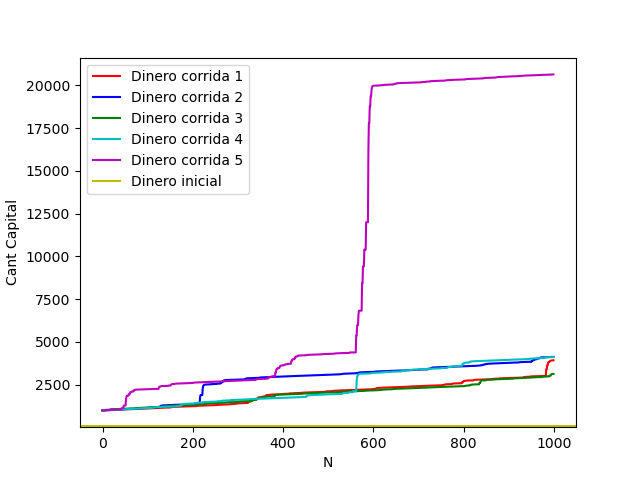
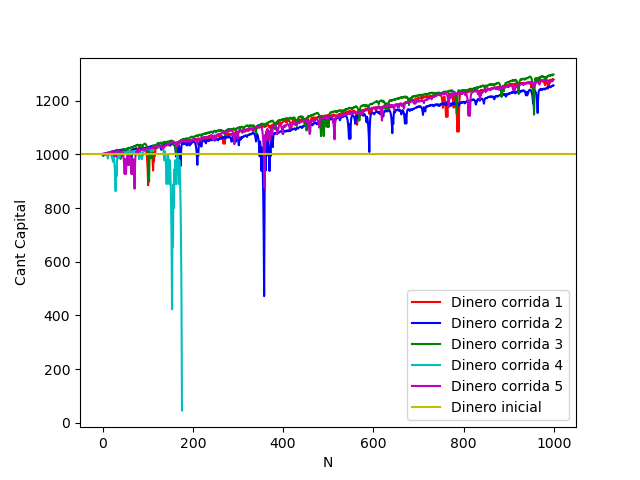
Cambios codigo

diff --git a/ruletaEcon_martingala_multiple.py b/ruletaEcon_martingala_multiple.py
@@ -106,15 +106,15 @@ def apostar():
         print("Tiene que ingresar una apuesta")
     
     n = 1
-    plata = 100
+    caja = 10000
 
-    altura = plata
+    altura = caja
     cant_capital = [[],[],[],[],[]]
     frec_relativas = [[],[],[],[],[]]
     dinero_ganado = [[],[],[],[],[]] 
     c  = 0   
     for x in range(0, cantJugadas):
-        plata = 100
+        caja = 10000
         cant_ganadas = 0
         apuesta = apuesta_original
         for i in range(1 , cantVeces + 1):
@@ -123,33 +123,29 @@ def apostar():
             gano = getGano(modo , nroaleatorio , apuesta , color , numero , paridad)
             
             if gano == 0 :  
-                if not infinito: 
-                    plata -= apuesta
-                    dinero_ganado[x].append(-apuesta)
-                    if plata >= apuesta * factor:
-                        apuesta *= factor
-                    if plata < apuesta * factor:
-                        apuesta = plata
-                    if plata <= 0 :
-                        print("Has perdido")
-                        break
-                    c+=1
-                else:
+                caja -= apuesta
+                dinero_ganado[x].append(-apuesta)
+                if infinito:
                     apuesta *= factor
-                    dinero_ganado[x].append(0)
+                elif caja >= apuesta * factor:
+                    apuesta *= factor
+                elif caja < apuesta * factor :
+                    print("Has perdido")
+                    break
+                c+=1
 
             if gano > 0:
                 dinero_ganado[x].append(gano)
-                plata -= apuesta
-                plata += gano
-                c+=1
-                cant_ganadas+=1
+                caja -= apuesta
+                caja += gano
+                c += 1
+                cant_ganadas += 1
                 apuesta = apuesta_original
             frec_relativas[x].append(cant_ganadas / i)
-            cant_capital[x].append(plata)
-            if debug : print(f"Aposto {apuesta} y tiene {plata}")
+            cant_capital[x].append(caja)
+            if debug : print(f"Aposto {apuesta} y tiene {caja}")
 
-    print(cant_capital)
+    #print(cant_capital)
     colores = ["r", "b", "g" , "c" , "m"]
     for index , arrayFrecuencia in enumerate(frec_relativas):
         x_coords = np.arange(len(arrayFrecuencia)) 
@@ -157,51 +153,52 @@ def apostar():
     plt.xlabel("N")
     plt.ylabel("FR")
     plt.legend()
-    if infinito:
-        plt.savefig("mg_fr_ili.png")
-    else:
-        plt.savefig("mg_fr_li.png")
-    plt.clf()
-    
+    #if infinito:
+    #    plt.savefig("mg_fr_ili.png")
+    #else:
+    #    plt.savefig("mg_fr_li.png")
+    #plt.clf()
+    plt.show()
     
     for index , cant_c in enumerate(cant_capital):
-        plt.plot(cant_c , color = colores[index] , label = f"Dinero corrida {index + 1}" )
-    plt.axhline(y = 100, color = "y", label = "Dinero inicial")
+        plt.plot(cant_c , color = colores[index] , label = f"Flujo de caja corrida {index + 1}" )
+    plt.axhline(y = altura, color = "y", label = "Caja inicial")
     plt.xlabel("N")
     plt.ylabel("Cant Capital")
     plt.legend()
-    if infinito:
-        plt.savefig("mg_cc_ili.png")
-    else:
-        plt.savefig("mg_cc_li.png")
-    plt.clf()
+    #if infinito:
+    #    plt.savefig("mg_cc_ili.png")
+    #else:
+    #    plt.savefig("mg_cc_li.png")
+    #plt.clf()
+    plt.show()
     
     max_dinero = getMax(cant_capital)
     
     for index, cant_c in enumerate(cant_capital) :
         x_coords = np.arange(len(cant_c)) 
-        plt.bar(x_coords + index / 10, cant_c , width = 0.1 , color = colores[index]  , label = f"CC corrida {index + 1}")
+        plt.bar(x_coords + index / 10, cant_c , width = 0.1 , color = colores[index]  , label = f"Flujo de caja corrida {index + 1}")
     plt.axhline(y = max_dinero, color = "y", label = "Dinero maximo")
     plt.xlabel("N")
     plt.ylabel("Cant Capital")
     plt.legend()
-    if infinito:
-        plt.savefig("mg_ccb_ili.png")
-    else:
-        plt.savefig("mg_ccb_li.png")
-    plt.clf()
-
+    #if infinito:
+    #    plt.savefig("mg_ccb_ili.png")
+    #else:
+    #    plt.savefig("mg_ccb_li.png")
+    #plt.clf()
+    plt.show()
     for index, gain in enumerate(dinero_ganado):
         plt.plot(gain , color = colores[index] , label = f"Ganancia-Perdida/Tiro {index + 1}" )
     plt.xlabel("N")
     plt.ylabel("Ganancia")
     plt.legend()
-    if infinito:
-        plt.savefig("mg_gpt_ili.png")
-    else:
-        plt.savefig("mg_gpt_li.png")
-    plt.clf()
-    
+    #if infinito:
+    #    plt.savefig("mg_gpt_ili.png")
+    #else:
+    #    plt.savefig("mg_gpt_li.png")
+    #plt.clf()
+    plt.show()
            
     
 

diff --git a/ruletaEcon_fibonacci_multiple.py b/ruletaEcon_fibonacci_multiple.py
@@ -103,7 +103,8 @@ def apostar():
         paridad = ""
     
     n = 1
-    plata = 1000
+    plata = 10000
+    plata_inicial = plata
     apuesta = getNthFib(n)
     altura = plata
     cant_capital = [[],[],[],[],[]]
@@ -111,7 +112,7 @@ def apostar():
     dinero_ganado = [[],[],[],[],[]] 
     c  = 0   
     for x in range(0, cantJugadas):
-        plata = 1000
+        plata = 10000
         cant_ganadas = 0
         n = 1
         for i in range(1 , cantVeces + 1):
@@ -128,9 +129,8 @@ def apostar():
                 dinero_ganado[x].append(-apuesta)
             if gano == 0:
                 n += 1
-                if not infinito:
-                    plata -= apuesta
-                    c+=1
+                plata -= apuesta
+                c += 1
             if gano > 0:
                 plata -= apuesta
                 plata += gano
@@ -154,39 +154,42 @@ def apostar():
     plt.xlabel("N")
     plt.ylabel("FR")
     plt.legend()
-    plt.savefig("fib_fr_li.png")
-    plt.clf()
+    plt.show()
+    #plt.savefig("fib_fr_li.png")
+    #plt.clf()
     
     
     for index , cant_c in enumerate(cant_capital):
-        plt.plot(cant_c , color = colores[index] , label = f"Dinero corrida {index + 1}" )
-    plt.axhline(y = 100, color = "y", label = "Dinero inicial")
+        plt.plot(cant_c , color = colores[index] , label = f"Flujo de caja corrida {index + 1}" )
+    plt.axhline(y = plata_inicial, color = "y", label = "Dinero inicial")
     plt.xlabel("N")
     plt.ylabel("Cant Capital")
     plt.legend()
-    plt.savefig("fib_cc_li.png")
-    plt.clf()
-    
+    #plt.savefig("fib_cc_li.png")
+    #plt.clf()
+    plt.show()
+
     max_dinero = getMax(cant_capital)
     
     for index, cant_c in enumerate(cant_capital) :
         x_coords = np.arange(len(cant_c)) 
-        plt.bar(x_coords + index / 10, cant_c , width = 0.1 , color = colores[index]  , label = f"CC corrida {index + 1}")
+        plt.bar(x_coords + index / 10, cant_c , width = 0.1 , color = colores[index]  , label = f"Flujo de caja corrida {index + 1}")
     plt.axhline(y = max_dinero, color = "y", label = "Dinero maximo")
     plt.xlabel("N")
     plt.ylabel("Cant Capital")
     plt.legend()
-    plt.savefig("fib_ccb_li.png")
-    plt.clf()
-
+    #plt.savefig("fib_ccb_li.png")
+    #plt.clf()
+    
+    plt.show()
     for index, gain in enumerate(dinero_ganado):
         plt.plot(gain , color = colores[index] , label = f"Ganancia-Perdida/Tiro {index + 1}" )
     plt.xlabel("N")
     plt.ylabel("Ganancia")
     plt.legend()
-    plt.savefig("fib_gpt_li.png")
-    plt.clf()
-
+    #plt.savefig("fib_gpt_li.png")
+    #plt.clf()
+    plt.show()
     #region Graphs
     #    
     #  
